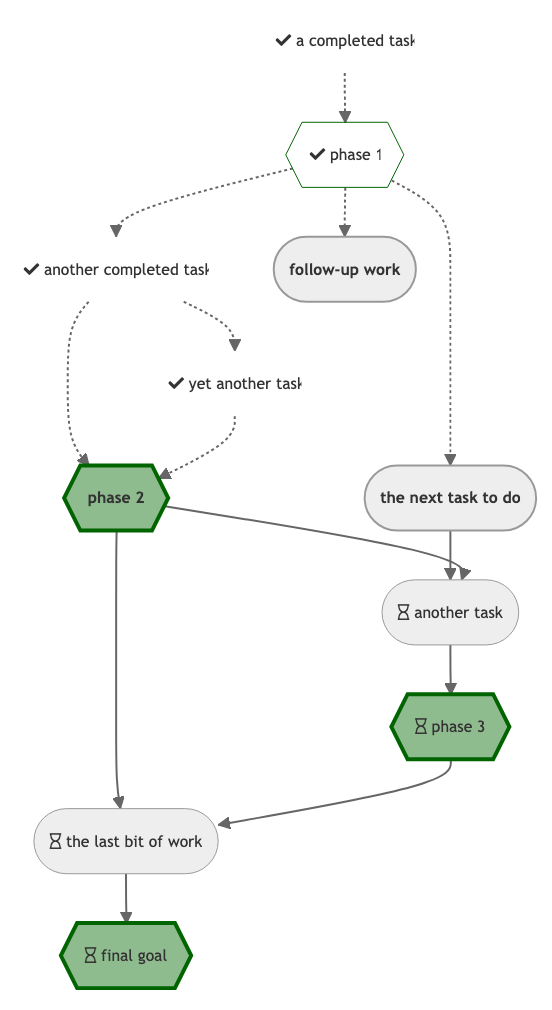
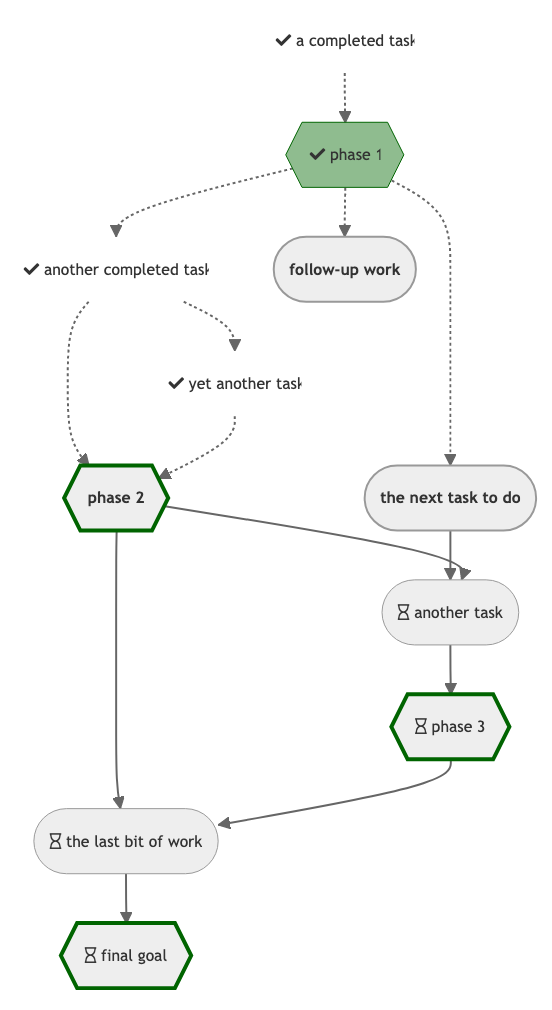
Swap fill for mermaid to match graphviz style

diff --git a/asana_deps_graph.py b/asana_deps_graph.py
@@ -160,9 +160,9 @@ class Mermaid(Renderer):
         if task.is_milestone:
             style |= {'stroke': self.MILESTONE_STROKE}
             if task.is_completed:
-                style |= {'fill': 'none'}
+                style |= {'fill': self.MILESTONE_FILL}
             else:
-                style |= {'fill': self.MILESTONE_FILL, 'stroke-width': '4px'}
+                style |= {'stroke-width': '4px'}
 
         elif task.is_completed:
             style |= {'stroke': 'none', 'fill': 'none'}
